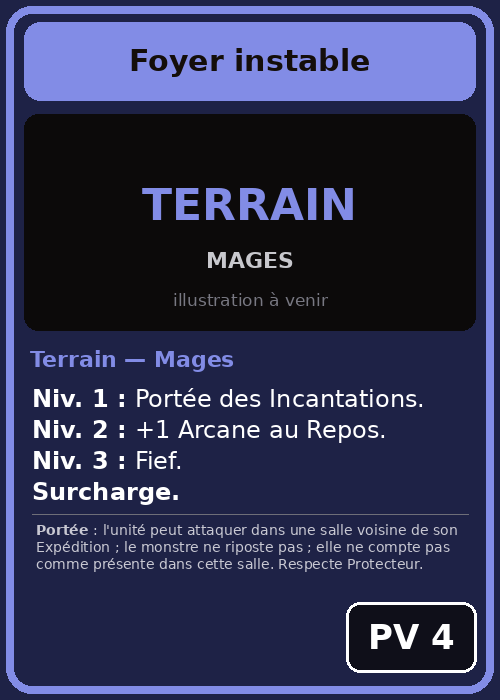
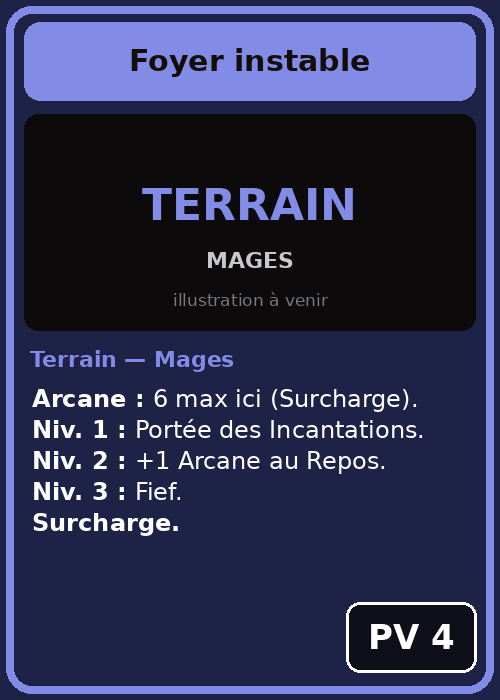
Terrains : max de ressources affiché ; Glyphe redevient un jeton (sur le monstre)
Claude-Session: https://claude.ai/code/session_018wG5fVkDBEitvce4sJryec

Changed region(s): [[0.06, 0.54, 0.93, 0.81]]

diff --git a/tools/from_bible.py b/tools/from_bible.py
@@ -31,7 +31,6 @@ LANGS = ("fr", "en")
 A_RETRADUIRE = []
 
 gen.PALETTE["Mages"] = ((30, 34, 70), (130, 140, 230))
-gen.TYPE_LABEL["Marqueur"] = "Marqueur"
 TYPES = {"Unité": "Unite", "Sort": "Sort", "Gardien": "Gardien", "Terrain": "Terrain"}
 
 
@@ -161,10 +160,7 @@ def rappels_pour(texte, lang="fr"):
 
 def invoque(texte):
     t = texte.lower()
-    out = [j for j in ("pousse", "loup") if j in t and "jeton." not in t]
-    if "pose" in t and "glyphe" in t:   # le Glyphe est une carte jeton, posée dans l'Expédition face à sa salle
-        out.append("glyphe")
-    return out
+    return [j for j in ("pousse", "loup") if j in t and "jeton." not in t]
 
 
 def lire_csv(chemin):
@@ -250,22 +246,14 @@ def communes():
         "**Raid:** a successful raid can take it instead of the 1st stolen treasure."))
     com["energie"]["en"] = dict(name="Energy", text=(
         "Tap it to pay 1.\nAll untap at your Rest.\nMax: 3 in round 1, +1 per round, 6 at most."))
-    glyphe = gen.C("glyphe", "Glyphe", "Marqueur", 0, "Mages", rich(
-        "Jeton. Se pose dans ton Expédition face à sa salle ; hors limite de 3, 2 max par salle. / "
-        "La 1re unité adverse qui entre dans la salle ou y attaque (Portée comprise) prend 1 dégât et est Sonnée, "
-        "puis un Glyphe est retiré. 1 seul Glyphe par unité et par tour."), legal=False, token=True)
-    glyphe["en"] = dict(name="Glyph", text=rich(
-        "Token. Placed in your Expedition facing its room; outside the limit of 3, 2 max per room. / "
-        "The 1st enemy unit that enters the room or attacks in it (Reach included) takes 1 damage and is Stunned, "
-        "then a Glyph is removed. Only 1 Glyph per unit per turn.", "en"))
-    return list(com.values()) + [glyphe]
+    return list(com.values())
 
 
 # Libellés dessinés sur les cartes anglaises (generate.py a les libellés français)
 DESSIN_EN = dict(
     LABELS={"evolue_big": "EVOLVED", "relique": "◆ RELIC", "illus": "art to come", "evolue": " (evolved)",
             "tresor": ("treasure", "treasure"), "P": "PWR", "PV": "HP"},
-    TYPE_LABEL={"Marqueur": "Marker", "Gardien": "Guardian", "Unite": "Unit", "Sort": "Spell", "Terrain": "Terrain", "Monstre": "Monster",
+    TYPE_LABEL={"Gardien": "Guardian", "Unite": "Unit", "Sort": "Spell", "Terrain": "Terrain", "Monstre": "Monster",
                 "Boss": "Boss", "Relique": "Relic", "Tresor": "Treasure", "Energie": "Energy", "Menu": "Menu"},
     FACTION_LABEL={"Ivrognes": "Drunkards", "Druides": "Druids", "Mages": "Mages", gen.MINE: "Goblin Mine"},
 )
@@ -342,8 +330,9 @@ def ecrire_cartes(cards_list):
 JETONS_NEUFS = [
     ("Ressource", "Ressource : Sève, Arcane ou Mise, sur ton Terrain (1 jeton = 1)", "◆", (200, 160, 30)),
     ("Egide", "Égide : ignore le prochain coup reçu", "ÉGIDE", (90, 160, 200)),
+    ("Glyphe", "Glyphe (Mages) : 1 dégât et Sonné à la 1re unité adverse qui entre ou attaque ici", "GLY|PHE", (110, 60, 180)),
 ]
-JETONS_RETIRES = {"Seve", "Arcane", "Mise", "Glyphe"}   # remplacés par Ressource ; le Glyphe est une carte jeton
+JETONS_RETIRES = {"Seve", "Arcane", "Mise"}   # remplacés par Ressource
 NOMS = {  # libellés à jour des jetons existants
     "Sonne": "Sonné : ne frappe pas à son prochain combat",
     "GueuleDeBois": "Gueule de bois : Sonné jusqu'à la fin de ton prochain tour (Rhum)",
@@ -380,9 +369,9 @@ AIDE = [
     "Raid (dès la manche 2, 1 par Assaut) : après un kill dans une salle, tes unités de cette salle attaquent le Camp adverse. Réussi si plus de raiders que de défenseurs debout (Gardien compris) : 1 trésor volé, +1 si le Gardien est Assommé.",
     "Monstre tué : l'hôte le met dans « Monstres vaincus », le tueur ajoute ses trésors (pastille dorée) à son compteur. Icône Relique : « Prendre la relique » dans le panneau Donjon. Automatique : salles vides remplies au début de chaque tour ; évolution en fin de manche.",
     "Terrain : commence à côté du Gardien, glisse-le dans une Expédition à ton 1er Assaut. Niv 1 à la pose, +1 au Retrait s'il n'a pas bougé (3 max, niv. 3 = Fief). Lever le camp : Expédition voisine, -1 niveau. Détruit par l'adversaire : +1 trésor pour lui (pillage), revient au niv. 1 à ton Assaut suivant.",
-    "Compteur = Trésors. PV et Puissance : compteurs de la carte (clic droit > Toggle counter 1 = PV, touche C ; counter 2 = Puissance, Ctrl C). Jetons à glisser sur les cartes : Ressource (Sève, Arcane ou Mise : 1 jeton = 1, sur ton Terrain), Niveau 1-3, états (Sonné, Empoisonné, Rapide, Insensible, Ivre, Gueule de bois, Contrecoup, Entravé, En soin, Égide, Piège).",
+    "Compteur = Trésors. PV et Puissance : compteurs de la carte (clic droit > Toggle counter 1 = PV, touche C ; counter 2 = Puissance, Ctrl C). Jetons à glisser sur les cartes : Ressource (Sève, Arcane ou Mise : 1 jeton = 1, sur ton Terrain), Niveau 1-3, états (Sonné, Empoisonné, Rapide, Insensible, Ivre, Gueule de bois, Contrecoup, Entravé, En soin, Égide, Piège, Glyphe). Glyphe : glisse-le sur le monstre de sa salle.",
     "Deck : 1 Gardien + 1 Terrain de sa faction + 30 cartes de la faction, dont 20 min. du pool du Gardien (3 ex. max, Signature 1). TCG Arena ne vérifie pas la règle des 20.",
-    "Cartes jetons Pousse, Loup et Glyphe : clic droit sur la carte qui les invoque ou les pose. Le Glyphe va dans ton Expédition face à sa salle (hors limite de 3).",
+    "Jetons Pousse et Loup : clic droit sur la carte qui les invoque.",
 ]
 
 
@@ -397,9 +386,9 @@ AIDE_EN = [  # à garder en phase avec AIDE
     "Raid (from round 2, 1 per Assault): after a kill in a room, your units in that room attack the enemy Camp. Success if more raiders than standing defenders (Guardian included): 1 treasure stolen, +1 if the Guardian is Knocked out.",
     "Monster killed: the host puts it in “Defeated monsters”, the killer adds its treasure (gold badge) to their counter. Relic icon: “Take the relic” in the Dungeon panel. Automatic: empty rooms refilled at the start of each turn; evolution at the end of the round.",
     "Terrain: starts next to the Guardian, drag it to an Expedition on your 1st Assault. Lvl 1 when placed, +1 at Withdrawal if it didn't move (3 max, lvl 3 = Stronghold). Break camp: neighboring Expedition, -1 level. Destroyed by the opponent: +1 treasure for them (plunder), comes back at lvl 1 on your next Assault.",
-    "Counter = Treasure. HP and Power: card counters (right click > Toggle counter 1 = HP, key C; counter 2 = Power, Ctrl C). Tokens to drag onto cards: Resource (Sap, Arcana or Wager: 1 token = 1, on your Terrain), Level 1-3, states (Stunned, Poisoned, Swift, Unflinching, Tipsy, Hangover, Backlash, Snared, Recovering, Aegis, Trap).",
+    "Counter = Treasure. HP and Power: card counters (right click > Toggle counter 1 = HP, key C; counter 2 = Power, Ctrl C). Tokens to drag onto cards: Resource (Sap, Arcana or Wager: 1 token = 1, on your Terrain), Level 1-3, states (Stunned, Poisoned, Swift, Unflinching, Tipsy, Hangover, Backlash, Snared, Recovering, Aegis, Trap, Glyph). Glyph: drag it onto the monster of its room.",
     "Deck: 1 Guardian + 1 Terrain of its faction + 30 cards of the faction, including 20 min. from the Guardian's pool (3 copies max, Signature 1). TCG Arena doesn't check the rule of 20.",
-    "Sprout, Wolf and Glyph token cards: right click on the card that summons or places them. A Glyph goes in your Expedition facing its room (outside the limit of 3).",
+    "Sprout and Wolf tokens: right click on the card that summons them.",
     "Language: Options menu (English / Français).",
 ]
 
@@ -417,7 +406,7 @@ UI_EN = {
     "Expédition 1": "Expedition 1", "Expédition 2": "Expedition 2", "Expédition 3": "Expedition 3",
     "Expédition 4": "Expedition 4", "Coulisse": "Backstage",
     "Ressource : Sève, Arcane ou Mise, sur ton Terrain (1 jeton = 1)": "Resource: Sap, Arcana or Wager, on your Terrain (1 token = 1)",
-    "Marqueur": "Marker", "Niveau 1": "Level 1", "Niveau 2": "Level 2", "Niveau 3 (Fief)": "Level 3 (Stronghold)",
+    "Niveau 1": "Level 1", "Niveau 2": "Level 2", "Niveau 3 (Fief)": "Level 3 (Stronghold)",
     "Sonné : ne frappe pas à son prochain combat": "Stunned: doesn't strike in its next combat",
     "Empoisonné : perd 1 PV à chaque Repos de son propriétaire, jusqu'à être soigné":
         "Poisoned: loses 1 HP at each of its owner's Rests, until healed",
@@ -431,6 +420,8 @@ UI_EN = {
         "Recovering: wounded in the Camp, healed at your next Rest then stays in the Camp that turn",
     "Piège (Éclaireur), face cachée ; Leurre possible": "Trap (Scout), face down; Decoy possible",
     "Égide : ignore le prochain coup reçu": "Aegis: ignores the next hit received",
+    "Glyphe (Mages) : 1 dégât et Sonné à la 1re unité adverse qui entre ou attaque ici":
+        "Glyph (Mages): 1 damage and Stunned to the 1st enemy unit that enters or attacks here",
     "Ivrognes de Guss — La Taverne": "Guss's Drunkards — The Tavern", "Ivrognes de Rosa — Poudrière": "Rosa's Drunkards — Powder Keg",
     "Ivrognes de Robin — Tapis vert": "Robin's Drunkards — Green Felt",
     "Druides de Cernun — Bosquet ancien": "Cernun's Druids — Ancient Grove", "Druides de Belladone — Ronces": "Belladonna's Druids — Brambles",
